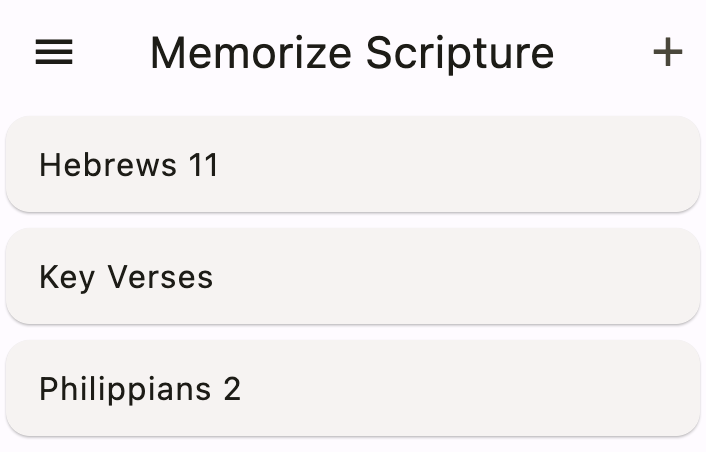
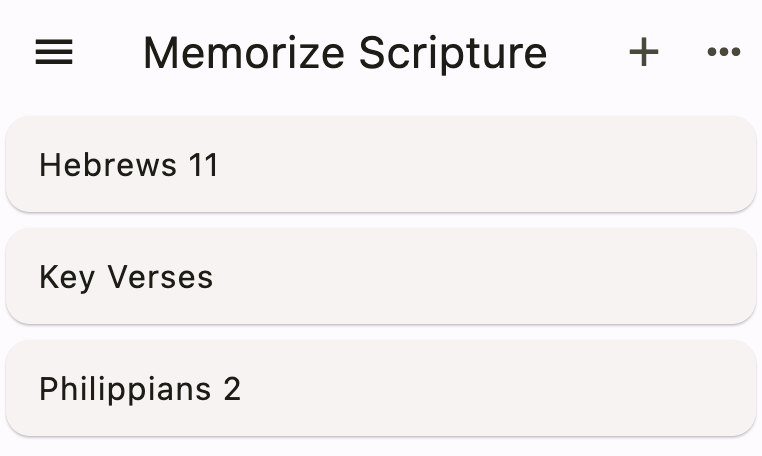
Update docs for version 1.4.0

diff --git a/docs/docs/practicing/practicing.md b/docs/docs/practicing/practicing.md
@@ -24,15 +24,14 @@ Have a look at the various parts of the verse practice screen:
 The numbers correspond to the following parts:
 
 1. **Remaining verses today**: This is the number of verses that are due to practice today. You entered three new verses earlier, so that's where this number comes from. Today they're all new, but in the future, you'll also have old verses to review.
-2. **Edit verse**: Press this button to edit the prompt and verse text.
-3. **Add new verse**: This is the same as what you did previously.
-4. **Prompt**: This is your queue to help you remember what you need to quote.
-5. **Hints**: These give you a little help if you need it. More on them shortly.
-6. **Show verse text**: Press this button to check if you quoted the verse right.
+2. **Menu**: Press this button to edit the current verse or add a new verse.
+3. **Prompt**: This is your queue to help you remember what you need to quote.
+4. **Hints**: These give you a little help if you need it. More on them shortly.
+5. **Show verse text**: Press this button to check if you quoted the verse right.
 
 
 :::note
-If you entered new verses and they aren't all showing up, check the **Max new verses per day** value in settings. You may want to increase it to something like 10.
+If you entered new verses and they aren't all showing up, check the **Max new verses per day** value in settings. The default is 10.
 :::
 
 ## Showing hints
@@ -62,9 +61,13 @@ You can see how they correspond wih the verse text you entered earlier for Hebre
 
 Knowing the first letters might be just enough information to help you with a tricky verse.
 
-### Word
+:::tip
+Tap a hidden word to reveal the whole thing.
+:::
 
-Now press the **Word** hint button. You'll see that it shows you the first word of your verse text, which in this case is "Hebrews". Continue to press **Word** and you'll incrementally reveal more words in the verse:
+### Words
+
+Now press the **Word** hint button. You'll see that it shows you the first word of your verse text, which in this case is "Hebrews". Continue to press **Word** and you'll incrementally reveal more words in the verse. You can also tap the verse area itself to reveal the next word:
 
 <div class="bordered-image">
 
@@ -73,7 +76,7 @@ Now press the **Word** hint button. You'll see that it shows you the first word 
 
 This allows you to give yourself just the amount of help that you need.
 
-If you press the Word hint button enough, it'll reveal the entire verse text, which will trigger the response buttons being shown at the bottom. That's fine, but for the sake of this tutorial, let's cancel the hints so that you can see how to show the verse text the normal way. To do that, go back out to the home screen by pressing the **<** back button. Then choose the **Hebrews 11** collection again.
+If you press the Word hint button enough, it'll reveal the entire verse text, which will hide the hint box and trigger the response buttons being shown at the bottom. That's fine, but for the sake of this tutorial, let's cancel the hints so that you can see how to show the verse text the normal way. To do that, go back out to the home screen by pressing the **<** back button. Then choose the **Hebrews 11** collection again.
 
 ## Showing the verse text
 
@@ -97,7 +100,7 @@ In the next section you'll learn what the response buttons mean.
 
 Memorize Scripture uses a spaced repetition strategy for reviewing verses. That means you'll practice the difficult verses every day while the easy verses you'll practice less frequently.
 
-You determine the verse difficulty yourself by using the response buttons. There are two of these buttons by default: Hard and Good.
+You determine the verse difficulty yourself by using the response buttons. There are four of these buttons by default: Hard, OK, Good, and Easy.
 
 <div class="bordered-image">
 
@@ -106,34 +109,34 @@ You determine the verse difficulty yourself by using the response buttons. There
 
 These are the meanings:
 
-- **Hard**: Press this button if you can't remember the verse or if you make a mistake while quoting it. For old verses, this will reset the due date so that you'll begin reviewing the verse daily again. For new verses, it schedules the verse so that you'll practice it again right away.
-- **Good**: Press this button if you quoted the verse correctly. For new verses, you still need to review it one more time today, so the button gives an approximate time in minutes until the next review. For old verses, the button will say "1 day" or "2 days", etc. Every time you review and press Good, the number of days for that verse will increase by one.
+- **Hard**: Press this button if you can't remember the verse or if you make a mistake while quoting it. The app will give it to you again in a little while.
+- **OK**: Press this button if you got the verse right, but it was a bit of a struggle. For new verses, you still need to review it one more time today, so the button gives an approximate time in minutes until the next review. Even for old verses, though, pressing OK will never schedule the next review more than 1 day away.
+- **Good**: Press this button if you quoted the verse correctly. Every time you review and press Good, the number of days before the next review will increase by one.
+- **Easy**: Press this button if you could say the verse in your sleep. This button will always schedule the next review for double the number of days of whatever Good is.
 
 :::note
-**Power users**: Do you want a little more control over when you'll practice the verse next? Go to **Settings** in the app menu and turn off **Two-button response** mode. This will give you four choices for every verse:
-
-<div class="bordered-image">
-
-![response buttons](img/practice-10.png)
-</div>
-
-No matter how high the other buttons get, the **OK** button is guaranteed to never be more than 1 day, so you can always practice again tomorrow if you like. This is equivalent to pressing Hard and then Good in the two-button mode. The **Easy** button is double the number of days as Good. Choose this if you can quote the verse in your sleep.
-:::
-
-Go through all three verses, pressing **Good** for each one. The next time you come to Hebrews 11:01, the Good response button will look a little different:
+**Simple button layout**: Are four buttons too much for you to think about? Do you want the app to worry about when to schedule the next review? Try the two-button layout. Go to **Settings** in the app menu and turn on **Two-button response** mode. This will give you only two choices for every verse:
 
 <div class="bordered-image">
 
 ![response buttons](img/practice-8.png)
 </div>
 
-Now the Good button says "1 day". If you press Good again, you're finished practicing it, and you won't see it again until tomorrow.
+Pressing Hard will give you the verse again today. It will also reset any previous progress so you'll get the verse again tomorrow, too. Pressing Good will make use of the app's spaced repetition algorithm to gradually increase the length of time between reviews.
+:::
 
-Press **Good** again for each of the three verses. You'll see the remaining verse number in the top left decrease until there are no more verses left.
+Go through all three verses, pressing **Good** for each one. You'll see the remaining verse number in the top left decrease until there are no more verses left.
+
+You'll see a congratulatory message when you're finished:
 
 <div class="bordered-image">
 
 ![response buttons](img/practice-9.png)
 </div>
+
+There are also two more buttons you haven't seen before:
+
+- **Undo**: This button is the curved arrow in the top right (to the left of the Add button). Choose Undo if you accidentally pressed the wrong response button and the verse disappeared.
+- **Practice all verses**: This is for casual practice. It'll give you all of the verses in the collection regardless of the due dates. The response buttons won't affect the due dates either.
 
 That's how practicing works. In the next section, you'll learn how to do things like rename collections and delete verses.

diff --git a/docs/docs/making-changes/making-changes.md b/docs/docs/making-changes/making-changes.md
@@ -23,9 +23,15 @@ To delete a collection, long-press the collection name and choose **Delete** fro
 
 Try that now. Delete your **Philippians 3** collection.
 
+## Resetting due dates
+
+If you previously worked on a collection of verses but now would like to reset any progress you made, choose **Reset due dates** from the menu. This essentially makes them all like newly added verses.
+
+Try that now. Reset your progress for the **Hebrews 11** collection.
+
 ## Editing verses
 
-From the home screen, long-press your **Hebrews 11** collection. Then choose **View** from the menu. This will bring you to the verse browser. You should see all three verses that you added earlier:
+From the home screen, long-press your **Hebrews 11** collection. Then choose **Browse verses** from the menu. This will bring you to the verse browser. You should see all three verses that you added earlier:
 
 <div class="bordered-image">
 
@@ -41,7 +47,7 @@ Tap the first verse and make a small change. For example, add **(WEB)** after th
 ![edit verse](img/edit-verse.png)
 </div>
 
-## Resetting the due date
+## Other verse operations
 
 Back in the Hebrews 11 view screen, long-press the third verse. You'll see another menu:
 
@@ -50,8 +56,38 @@ Back in the Hebrews 11 view screen, long-press the third verse. You'll see anoth
 ![verse view menu](img/verse-menu.png)
 </div>
 
-Press **Reset due date**. This will make the third verse new again, as if you had just entered it and never practiced it before. This is useful if you accidentally mark a verse as Good before you're ready.
+These are the meanings of the menu items:
 
-## Deleting verses
+- **Move**: Choose this to move the verse to a different collection.
+- **Reset due date**: This resets the progress for this verse only.
+- **Delete**: This deletes the selected verse.
 
-If you want to delete a verse, choose **Delete** from the same menu as in the previous example.
+## Backing up and restoring collections
+
+Return to the home screen with your collections list. Choose the three-dot menu in the top right:
+
+<div class="bordered-image">
+
+![verse view menu](img/three-dot-menu-1.png)
+</div>
+
+This will give you two options:
+
+<div class="bordered-image">
+
+![verse view menu](img/three-dot-menu-2.png)
+</div>
+
+This is the meaning:
+
+- **Backup**: This will extract all of your collections and verses from the app's database and put them in a text file. You'll be given an opportunity to choose a location to share this file to. For example, you could send yourself an email. It's a good idea to back up your collections every now and then so that if you loose your phone, you won't loose all of your hard work.
+- **Import**: Choose this option to restore a previous backup. If there are duplicates verses between the backup and your current collections, the app will go with the verses that were modified most recently.
+
+You may also recall seeing the **Share** option in the collection menu:
+
+<div class="bordered-image">
+
+![collection menu](img/collection-menu.png)
+</div>
+
+This option is similar to Backup but only for a single collection. You can use this to share a collection with a friend. Unlike Backup, Share does not retain your practice information. Your friend can add this collection to their app by selecting the shared file from the Import menu.

diff --git a/docs/docs/getting-started/getting-started.md b/docs/docs/getting-started/getting-started.md
@@ -6,8 +6,8 @@ sidebar_position: 2
 
 You'll want to put the verses you memorize into collections. There are two different types of collections you can make:
 
-- **Key verse collection**: These are an assortment of verses from various parts of the Bible. For example: John 3:16, Genesis 1:1, Romans 6:36.
-- **Passage collection**: These are consecutive verses that come from the same section in the Bible. For example, a whole chapter like Hebrews 11 or a passage like Philippians 2:1-10.
+- **Key verse collections**: These are an assortment of verses from various parts of the Bible. For example: John 3:16, Genesis 1:1, Romans 6:36.
+- **Passage collections**: These are consecutive verses that come from the same section in the Bible. For example, a whole chapter like Hebrews 11 or a passage like Philippians 2:1-10.
 
 The app itself doesn't differentiate these types, but it may help you to organize your own memory work in this way.
 
@@ -63,7 +63,7 @@ The collection names are displayed alphabetically. If you want to display them i
 
 Depending on whether you are memorizing an assortment of key verses or a long passage, there are at least two different strategies for entering verses in a collection.
 
-### In a key verse collection
+### Key verse collection
 
 Start by entering verses in the Key Verse collection you made earlier. Click the **Key Verses** collection item in the list. You'll see the following screen:
 
@@ -117,7 +117,7 @@ You can continue adding as many verses as you like. When you're finished, press 
 You can use sites like [YouVersion](https://www.bible.com/) or [BibleGateway](https://www.biblegateway.com/) to look up verses so that you can copy and paste them into the app. On the other hand, entering them in by hand is good for your memory, too.
 :::
 
-### In a passage collection
+### Passage collection
 
 If you're memorizing a long passage of scripture, only using the reference as the prompt can get confusing. A better prompt is to use the previous verse to remind you of the next one.
 

diff --git a/docs/docs/intro/intro.md b/docs/docs/intro/intro.md
@@ -12,7 +12,7 @@ Memorize Scripture is an [**Android**](https://play.google.com/store/apps/detail
 This tutorial will introduce you to how the app works. To get started, click the **Next** button below.
 
 :::important
-This tutorial was written for Memorize Scripture version 1.2.0. You can check your installed version number by going to the app menu and choosing **About**. If you're using a lower version, you should upgrade. The store links are below:
+This tutorial was written for Memorize Scripture version 1.4.0. You can check your installed version number by going to the app menu and choosing **About**. If you're using a lower version, you should upgrade. The store links are below:
 
 - Android Play Store: https://play.google.com/store/apps/details?id=dev.ethnos.memorize_scripture
 - Apple App Store: https://apps.apple.com/us/app/memorize-scripture-ethnosdev/id6449814205

diff --git a/docs/docs/settings/settings.md b/docs/docs/settings/settings.md
@@ -41,18 +41,18 @@ Rather than entering a lot of new verses at once and setting the max new verses 
 
 ## Two-button response
 
-The default is to show two response buttons on the practice screen:
+The default is to show four response buttons on the practice screen:
 
 <div class="bordered-image">
 
-![settings in menu](img/practice-7.png)
+![settings in menu](img/practice-1.png)
 </div>
 
-If you turn this setting off, you'll have four buttons:
+If you turn this setting on, you'll have two buttons:
 
 <div class="bordered-image">
 
-![settings in menu](img/practice-10.png)
+![settings in menu](img/practice-2.png)
 </div>
 
 ## Conclusion
